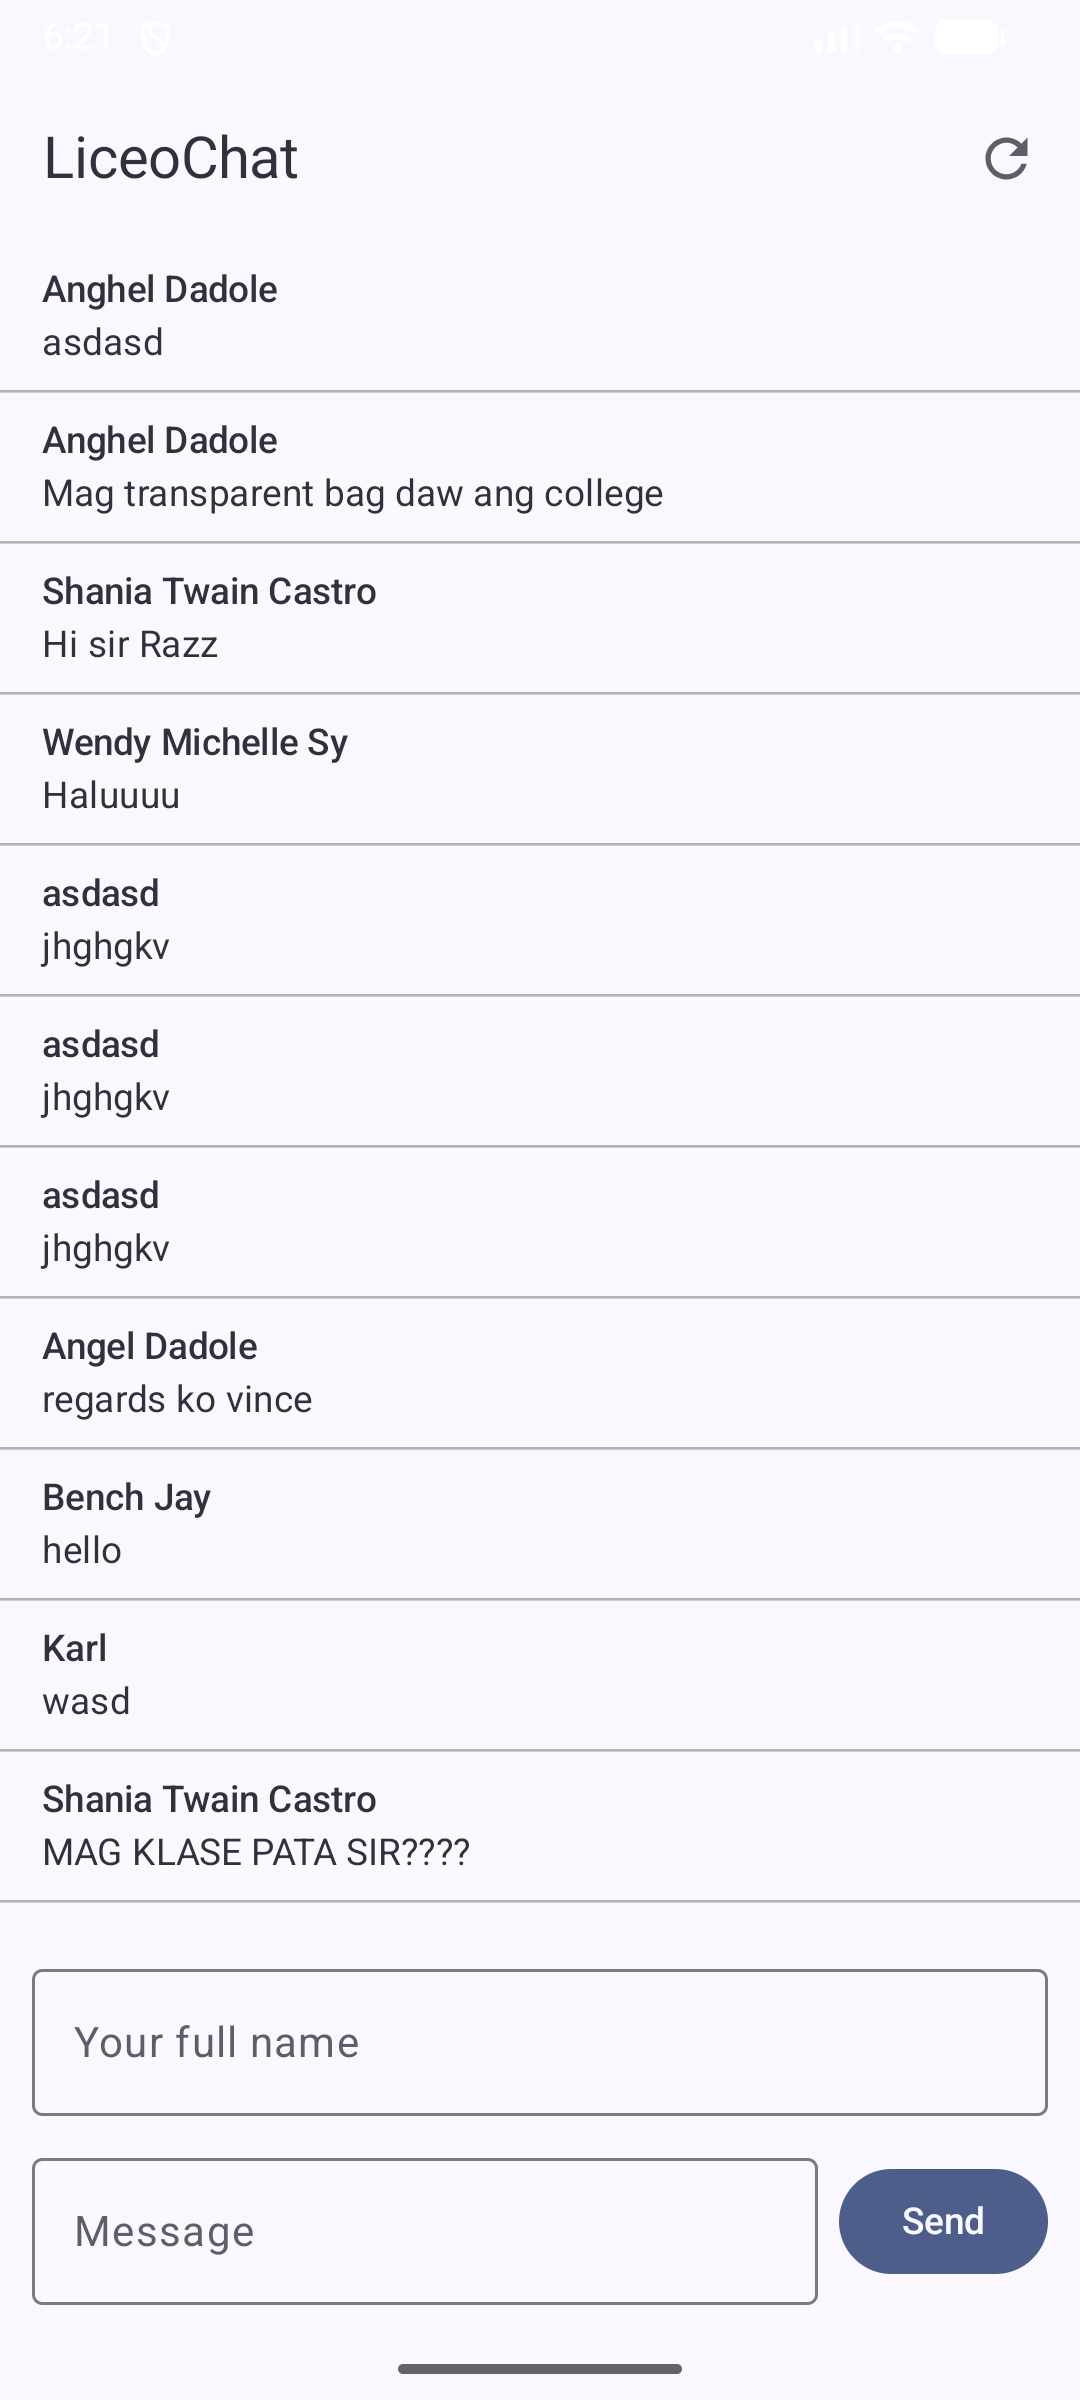
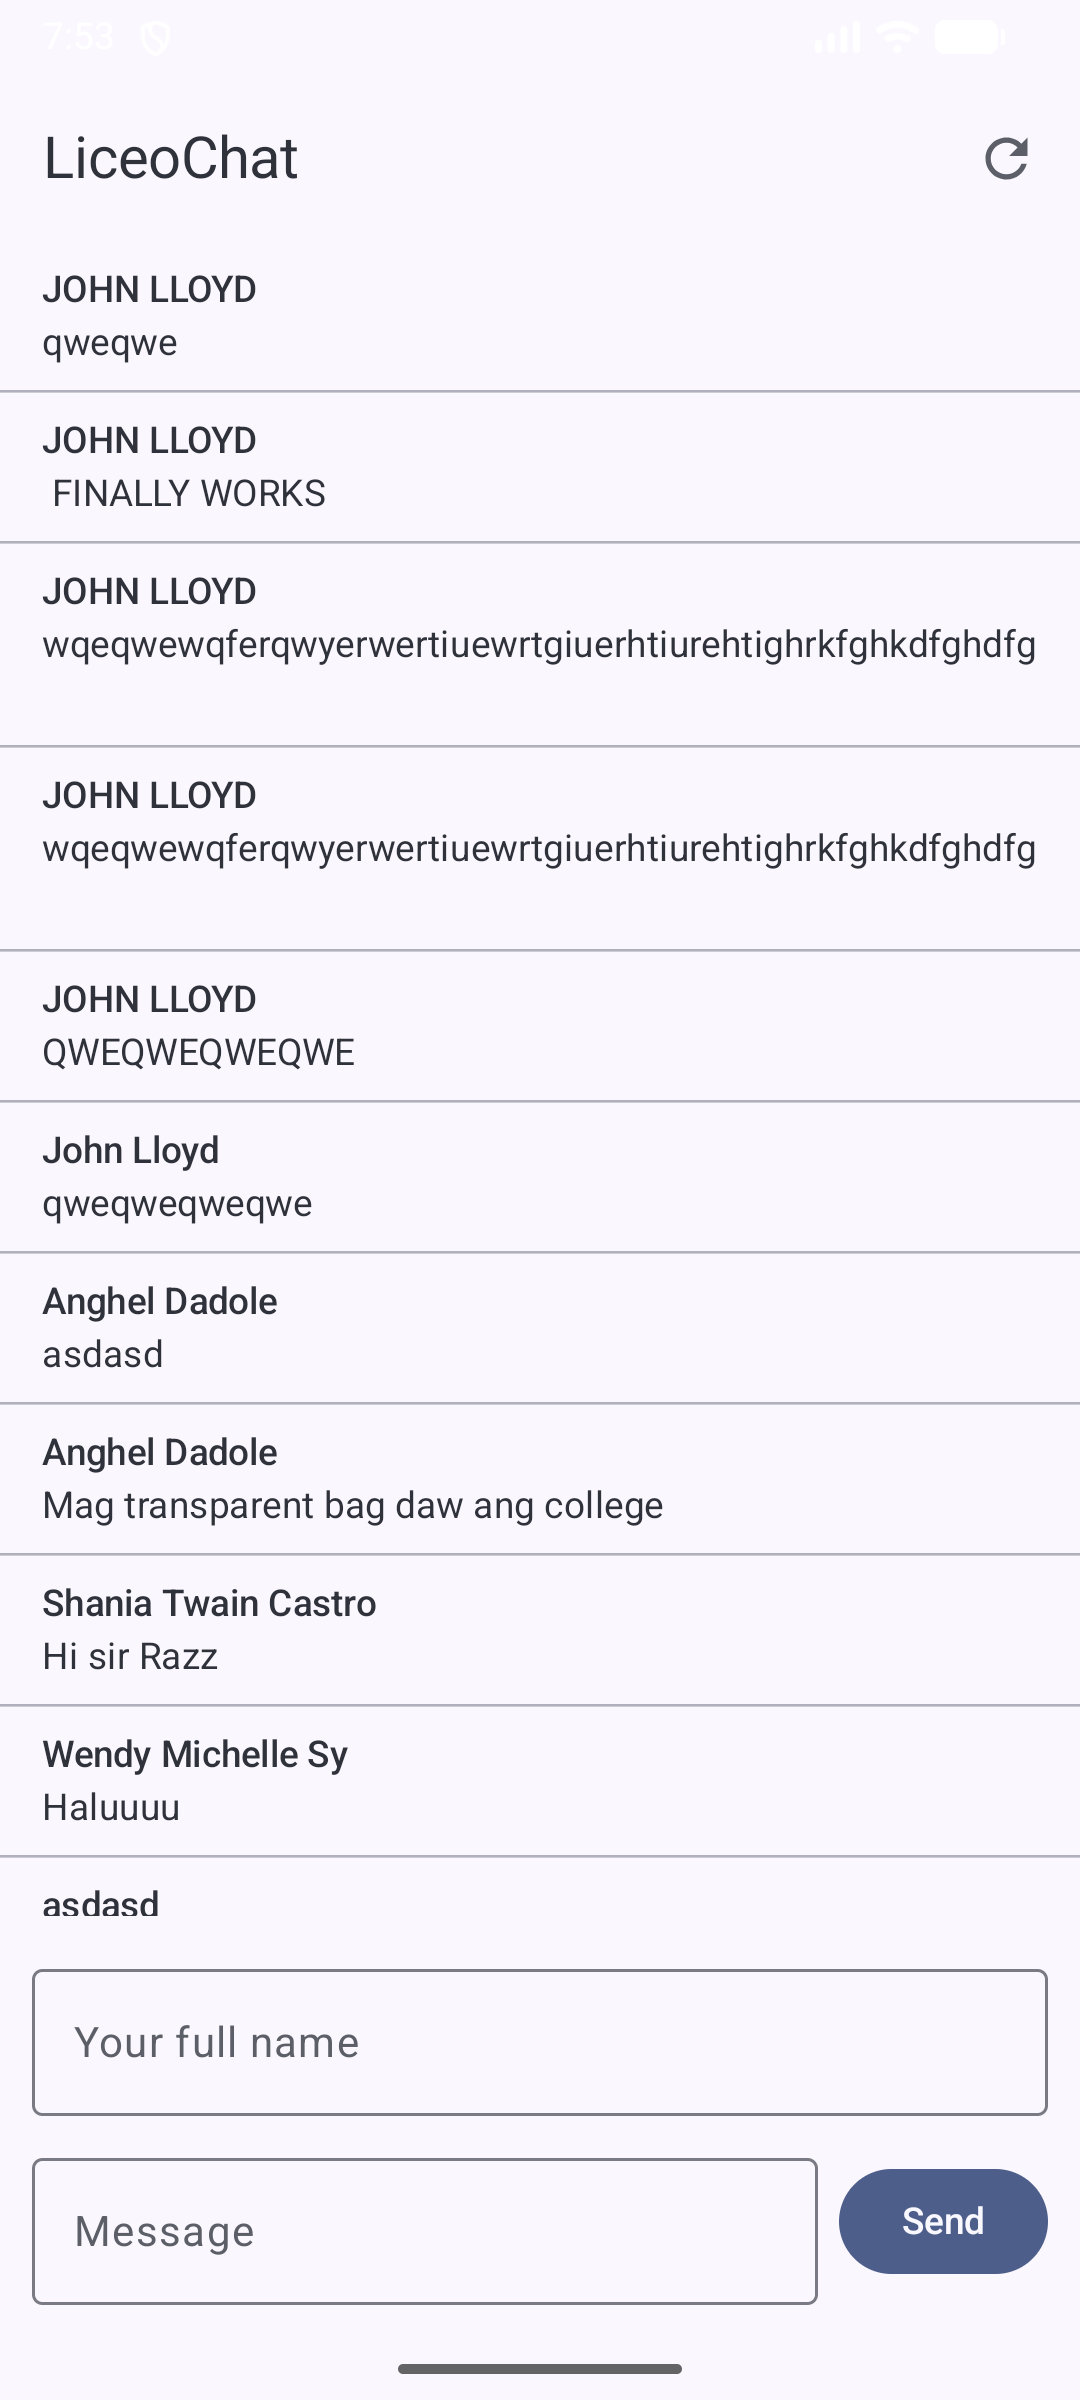
Final Activity 10 submission with screenshots

Changed region(s): [[0.0306, 0.0938, 0.9778, 0.8125], [0.4583, 0.1875, 0.6111, 0.2188]]

diff --git a/app/src/main/java/com/example/myapplication/data/network/dto/MessageMappers.kt b/app/src/main/java/com/example/myapplication/data/network/dto/MessageMappers.kt
@@ -1,13 +1,24 @@
 package com.example.myapplication.data.network.dto
 
 import com.example.myapplication.domain.Message
+import kotlinx.serialization.json.JsonPrimitive
+import kotlinx.serialization.json.longOrNull
 
-fun MessageDto.toDomain(): Message = Message(
-    id = id ?: "",
-    sender = sender ?: "Unknown",
-    text = text ?: "",
-    createdAt = createdAt ?: 0L
-)
+fun MessageDto.toDomain(): Message {
+    // Robust date parsing for mixed types (MockAPI quirk)
+    val time = when (val element = createdAt) {
+        is JsonPrimitive -> element.longOrNull ?: 0L
+        else -> 0L
+    }
+    
+    return Message(
+        id = id ?: "",
+        sender = sender ?: "Unknown",
+        text = text ?: "",
+        createdAt = time
+    )
+}
 
 fun List<MessageDto>.toDomain(): List<Message> =
     map { it.toDomain() }
+        .sortedByDescending { it.createdAt } // ENSURE newest is ALWAYS on top

diff --git a/app/src/main/java/com/example/myapplication/data/network/dto/MessageDto.kt b/app/src/main/java/com/example/myapplication/data/network/dto/MessageDto.kt
@@ -2,16 +2,19 @@ package com.example.myapplication.data.network.dto
 
 import kotlinx.serialization.Serializable
 
+import kotlinx.serialization.json.JsonElement
+
 @Serializable
 data class MessageDto(
     val id: String? = null,
     val sender: String? = null,
     val text: String? = null,
-    val createdAt: Long? = null
+    val createdAt: JsonElement? = null
 )
 
 @Serializable
 data class NewMessageDto(
     val sender: String,
-    val text: String
+    val text: String,
+    val createdAt: Long
 )

diff --git a/app/src/main/java/com/example/myapplication/data/repository/ChatRepositoryImpl.kt b/app/src/main/java/com/example/myapplication/data/repository/ChatRepositoryImpl.kt
@@ -39,7 +39,8 @@ class ChatRepositoryImpl(
     override suspend fun sendMessage(sender: String, text: String): AppResult<Unit> = safeCall {
         val dto = NewMessageDto(
             sender = sender,
-            text = text
+            text = text,
+            createdAt = System.currentTimeMillis()
         )
         api.sendMessage(dto)
         Unit

diff --git a/app/src/main/java/com/example/myapplication/data/network/ChatApiService.kt b/app/src/main/java/com/example/myapplication/data/network/ChatApiService.kt
@@ -14,6 +14,6 @@ interface ChatApiService {
         @Query("order") order: String = "desc"
     ): List<MessageDto>
 
-    @POST("messages/")
+    @POST("messages")
     suspend fun sendMessage(@Body message: NewMessageDto): MessageDto
 }
